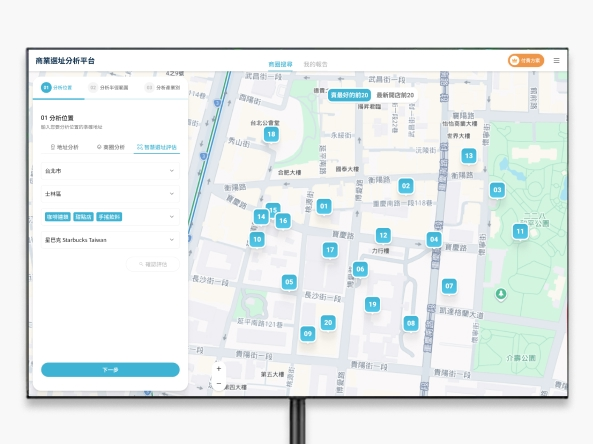
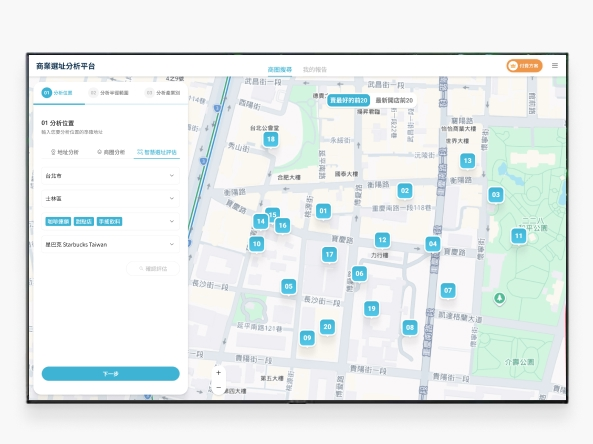
Add case 03 supporting media, fix layout breakpoints, and polish copy
- Add case-03 flow diagrams, GIFs, and screenshots with new split-media
  and image-pair-dark layout patterns for the case study article
- Fix table full-width rendering (anonymous table wrapper bug) and add
  cell backgrounds
- Center content on ultrawide screens by overlaying the sidebar instead
  of reserving a grid column, and lower the tablet breakpoint so the
  main column doesn't get squeezed between 1080-1200px
- Update case 01/03 summaries and case 03 body copy

diff --git a/src/styles/tokens.css b/src/styles/tokens.css
@@ -22,7 +22,7 @@
   --text-md: 1.3125rem; /* 21px — list titles, sub-headings */
   --text-lg: 1.6875rem; /* 27px — section headings */
   --text-xl: 2.1875rem; /* 35px — page titles */
-  --text-2xl: clamp(2.25rem, 4vw, 3rem); /* sidebar wordmark */
+  --text-2xl: clamp(1.75rem, 3vw, 2.75rem); /* sidebar wordmark */
 
   /* Spacing scale */
   --space-1: 0.5rem;
@@ -34,7 +34,7 @@
   --space-7: 7rem;
 
   /* Layout */
-  --content-max-width: min(90%, 56rem);
+  --content-max-width: min(90%, 60rem);
   --page-padding-inline: var(--space-3);
   --sidebar-width: 19rem;
 

diff --git a/src/content/case-studies/03.md b/src/content/case-studies/03.md
@@ -1,7 +1,7 @@
 ---
 title: "整合地理與消費數據的選址決策工具"
 subtitle: "商業選址分析平台"
-summary: "以地圖資訊與消費行為數據為核心的訂閱制商業選址 SaaS。負責功能規劃、介面設計到 UAT 驗收，在商業時程、技術成本、設計品質三者之間持續做有依據的取捨判斷。"
+summary: "地圖資訊與消費數據報告的訂閱制 SaaS。我負責功能規劃、介面設計到 UAT 驗收，在商業時程、技術成本、設計品質三者之間持續做有依據的取捨判斷。"
 tags: ["B2C SaaS", "地理資訊系統", "訂閱制服務"]
 order: 3
 cover: "../../assets/photos/cover-03.jpg"
@@ -28,15 +28,22 @@ tools: "Figma · Google Sheet · Notion"
 
 ### 釐清兩類用戶的本質需求差異，定義各自的成功情境
 
-市場初期幾乎找不到可參考的競品，使用者沒有既有的操作習慣可以依賴，介面模式需要從零建立。我們以脈絡訪查的方式，走過商業顧問實際的流程與情境，釐清目標客群的真實需求。
+市場初期幾乎找不到可參考的競品，使用者沒有既有的操作習慣可以依賴，介面模式需要從零建立。我們以脈絡訪查的方式，走過商業顧問實際的流程與情境，釐清目標客群的真實需求。訪查確認了兩類用戶在選址的關鍵流程和成功指標差異：
 
-訪查確認了兩類用戶在選址的關鍵流程和成功指標差異：**創業者**需要一份可以說服自己的決策依據，核心行為是在單一地點反覆比對條件，確認這裡「值得開」；**企業用戶**需要可以批量處理、反覆取用的資料工具，核心行為是跨地點比較，找出最優解。兩種需求對應完全不同的 User Journey，把各自的成功指標定義清楚後，才製作 User flows 讓業主逐一確認是否符合真實情境。
+| 使用者 | 關鍵行為 | 成功指標 |
+| --- | --- | --- |
+| 創業者 | 在單一區域反覆比對條件，確認有「值得開店」的位置。 | 一份可以說服自己的決策依據。 |
+| 企業用戶 | 批量購買帳號及跨季數據，由專業團隊進行跨區域比較。 | 找出完美的展店布局策略。 |
 
 ## User flows 驗證
 
 ### 把流程視覺化，讓隱性需求浮現
 
 User flows 製作完成後讓業主逐一走過，兩個隱性需求在這個過程中浮現。業主在看到創業者的操作流程時提出疑問：原本的三步驟規劃分成不同頁面、透過「下一步」切換，這個設計參考了脈絡訪查中觀察到的功能相似產品，業主看到流程後認為步驟太長，使用者可能在中途放棄。流程圖涵蓋所有功能操作細節，業主在走過報告管理流程時，發現規劃中只有一次性報告下載，希望增加可重複下載的功能，作為使用者遺失報告後的補救措施。
+
+<div class="image-single">
+<img src="/ryanchiang_lv3/images/case-03/3-a.jpg" alt="選址查詢的 User flow，涵蓋地址分析、商圈分析與智慧選址評估三種篩選路徑" />
+</div>
 
 > **Key Insight**
 >
@@ -52,21 +59,51 @@ User flows 製作完成後讓業主逐一走過，兩個隱性需求在這個過
 
 因此，我將所有模式統一進同一套三步驟 Wizard 流程（分析位置 → 半徑範圍 → 產業別）。三種模式都是用三個步驟完成選址，第一步驟是最大的差異，在初始畫面以 Tab 的形式切換。用戶學會一種模式，其餘兩種自然類推，不需要額外引導。
 
+<div class="image-pair-dark">
+<figure>
+<figcaption>三步驟查詢</figcaption>
+<img src="/ryanchiang_lv3/images/case-03/3-b-1.gif" alt="三步驟查詢示意動圖" />
+</figure>
+<figure>
+<figcaption>三種查詢模式</figcaption>
+<img src="/ryanchiang_lv3/images/case-03/3-b-2.gif" alt="三種查詢模式示意動圖" />
+</figure>
+</div>
+
 ### 以地圖互動分層兩種衝突需求，用 Toggle 控制視覺密度
 
-報告頁面同時承載兩種需求：全局概覽，區域範圍內所有商業指標總和；細節查詢，個別店家當月的詳細數據。
+報告頁面同時承載兩種需求：全局概覽，區域範圍內所有商業指標總和；細節查詢，個別店家當月的詳細數據。初始畫面中右側面板只會顯示全局概覽資訊，透過點擊地圖上個別店家的圖標，可以展開指定店家的資訊。
 
-初始畫面中右側面板只會顯示全局概覽資訊，透過點擊地圖上個別店家的圖標，可以展開指定店家的資訊。
+<div class="image-single">
+<img src="/ryanchiang_lv3/images/case-03/3-c.jpg" alt="報告頁面的全局概覽與個別店家詳細數據兩種檢視模式" />
+</div>
+
+<div class="split-media">
+
+<div class="toggle-pair">
+<img src="/ryanchiang_lv3/images/case-03/3-d-1.jpg" alt="熱力圖關閉時的報告畫面" />
+<img src="/ryanchiang_lv3/images/case-03/3-d-2.jpg" alt="熱力圖開啟時疊加在地圖上的視覺化呈現" />
+</div>
 
 此外，業主也希望可以把最重要的消費人口指標直接視覺化呈現在地圖上，為此需要規劃熱力圖功能。然而，同一區域可能有數百家商店，視覺化熱力圖若常駐畫面，根據注意力資源理論，使用者的視覺注意力是有限的，兩套視覺層疊加會分散焦點、干擾原本的地圖操作。因此，在設計上以 Toggle 控制視覺密度，讓使用者在需要時主動切換，而非被動承受兩套資訊同時呈現的認知負荷。
 
+</div>
+
 ### 條件微調才是最真實的使用情境
 
-最一開始的設計是產生報告後若需要調整條件，必須返回搜尋頁。
+<div class="split-media">
 
-但業務回饋真實的使用情境是，使用者在同一個選址地點之後，需要微調範圍或產業等篩選條件來比對或應證自己的決策，如果每次小調整都重新選址會是毀滅性的使用體驗。
+<div class="split-text">
+
+一開始的設計是產生報告後若需要調整條件，必須返回搜尋頁。但業務回饋真實的使用情境是：使用者在同一個選址地點之後，需要微調範圍或產業等篩選條件來比對或應證決策，每次小調整都重新選址是毀滅性的使用體驗。
 
 和開發團隊討論可行性後，決定在報告頁加入「編輯分析條件」功能，用戶可在不離開當前選址的情況下調整條件更新報告。
+
+</div>
+
+<img class="split-image" src="/ryanchiang_lv3/images/case-03/3-e.jpg" alt="報告頁面的編輯分析條件彈窗，可直接調整半徑範圍與產業別後重新分析" />
+
+</div>
 
 ## 設計成果
 

diff --git a/src/content/case-studies/01.md b/src/content/case-studies/01.md
@@ -1,7 +1,7 @@
 ---
 title: "0→1 建置整合行銷公司的內部系統"
 subtitle: "整合行銷管理系統"
-summary: "整合行銷公司的內部管理系統，從零建立，涵蓋五大業務流程、服務五種角色。我以 UX/UI 設計師兼任 SA 身份參與，負責把隱形的業務規則轉化為可執行的系統設計。"
+summary: "整合行銷公司內部管理系統，從零建立，涵蓋五大業務流程。我以 UX/UI 設計師兼任 SA 身份參與，負責把隱形業務規則轉化為可執行的系統設計。"
 tags: ["CRM", "RBAC 權限設計", "AI 流程設計"]
 order: 1
 cover: "../../assets/photos/cover-01.jpg"
